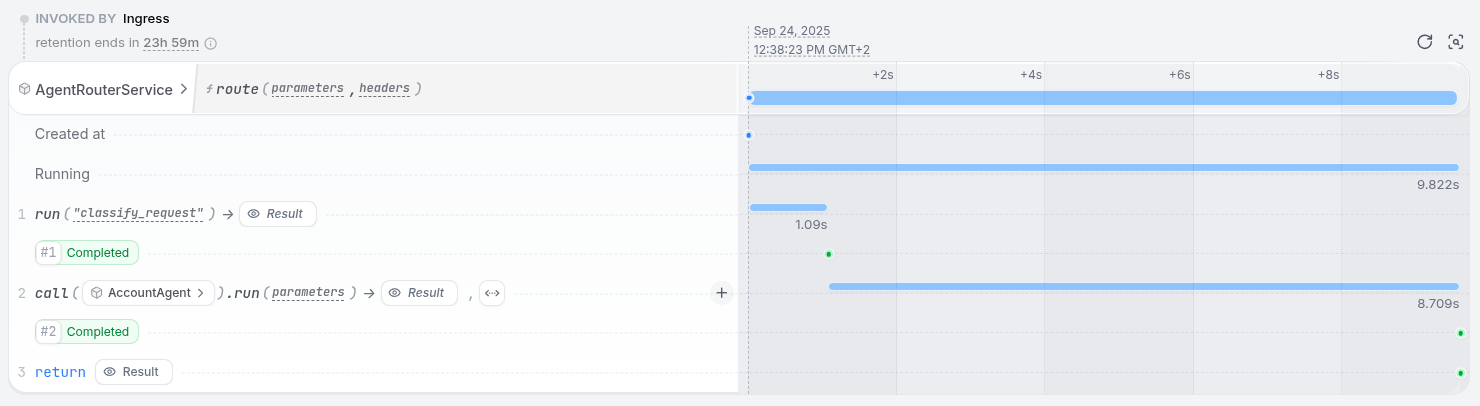
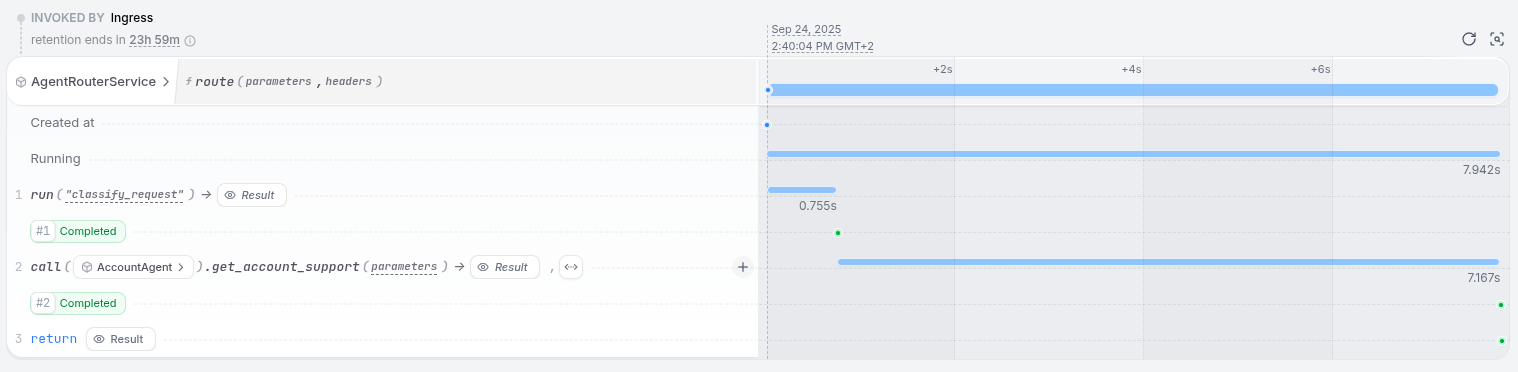
Fix bug

diff --git a/patterns/app/routing_to_agent.py b/patterns/app/routing_to_agent.py
@@ -56,15 +56,15 @@ async def route(ctx: restate.Context, prompt: Prompt) -> str:
 
         Reply with only the category name.
 
-        Request: {prompt.message}"""
+        Request: {prompt.message}""",
     )
-
-    agent_service = AGENTS.get(route_key.strip().lower()) or "ProductAgent"
+    category = route_key.strip().lower()
+    agent_service = AGENTS.get(category) or "ProductAgent"
 
     # Route to specialized agent
     response = await ctx.generic_call(
         agent_service,
-        f"{agent_service}_run",
+        f"get_{category}_support",
         arg=json.dumps(prompt.message).encode("utf-8"),
     )
 
@@ -78,7 +78,7 @@ billing_agent = restate.Service("BillingAgent")
 
 
 @billing_agent.handler()
-async def billing_run(ctx: restate.Context, prompt: str) -> str:
+async def get_billing_support(ctx: restate.Context, prompt: str) -> str:
     return await ctx.run_typed(
         "billing_response",
         llm_call,
@@ -87,7 +87,7 @@ async def billing_run(ctx: restate.Context, prompt: str) -> str:
         Acknowledge the billing issue, explain charges clearly, provide next steps with timeline.
         Keep responses professional but friendly.
 
-        Input: {prompt}"""
+        Input: {prompt}""",
     )
 
 
@@ -96,7 +96,7 @@ account_agent = restate.Service("AccountAgent")
 
 
 @account_agent.handler()
-async def account_run(ctx: restate.Context, prompt: str) -> str:
+async def get_account_support(ctx: restate.Context, prompt: str) -> str:
     return await ctx.run_typed(
         "account_response",
         llm_call,
@@ -105,7 +105,7 @@ async def account_run(ctx: restate.Context, prompt: str) -> str:
         Prioritize account security and verification, provide clear recovery steps, include security tips.
         Maintain a serious, security-focused tone.
 
-        Input: {prompt}"""
+        Input: {prompt}""",
     )
 
 
@@ -114,7 +114,7 @@ product_agent = restate.Service("ProductAgent")
 
 
 @product_agent.handler()
-async def product_run(ctx: restate.Context, prompt: str) -> str:
+async def get_product_support(ctx: restate.Context, prompt: str) -> str:
     return await ctx.run_typed(
         "product_response",
         llm_call,
@@ -123,5 +123,5 @@ async def product_run(ctx: restate.Context, prompt: str) -> str:
         Focus on feature education and best practices, include specific examples, suggest related features.
         Be educational and encouraging in tone.
 
-        Input: {prompt}"""
+        Input: {prompt}""",
     )
